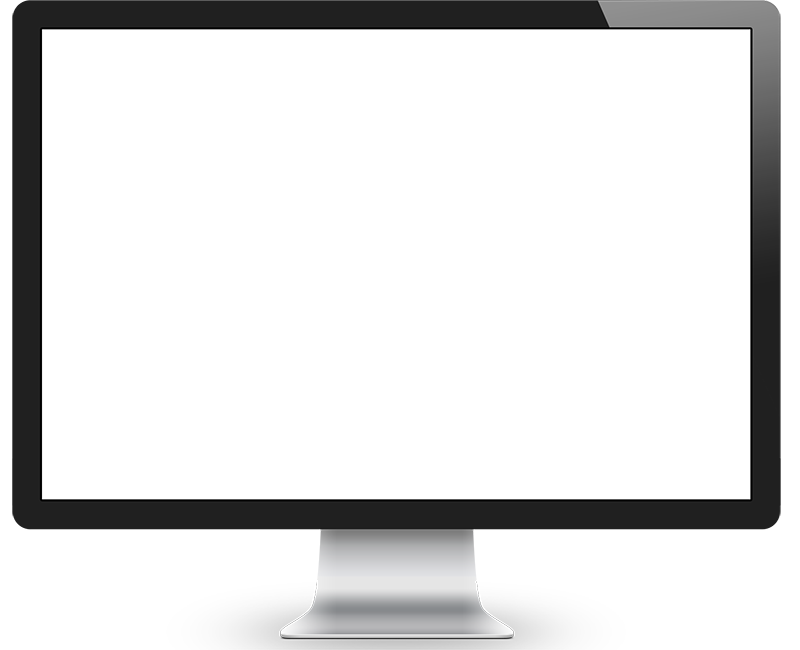
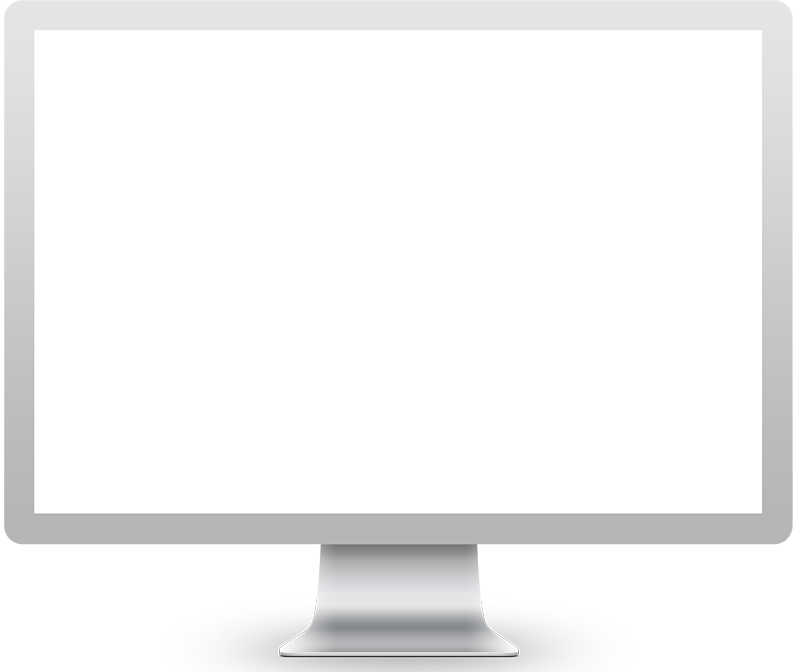
ui

Changed region(s): [[0.0, 0.0, 1.0, 0.8615], [0.3438, 0.8923, 0.6562, 0.9846]]

diff --git a/client/src/components/Landing.js b/client/src/components/Landing.js
@@ -13,9 +13,9 @@ class  Landing extends Component {
   }
 
    videolist = [
-    {id: 1, name: 'Clara', videourl: 'http://18.216.235.248:3000/api/videourl/clara.mp4'},
-    {id: 2, name: 'Jane', videourl: 'http://18.216.235.248:3000/api/videourl/Jane.mp4'},
-    {id: 3, name: 'Mary', videourl: 'http://18.216.235.248:3000/api/videourl/Mary.mp4'},
+    {id: 1, name: 'Clara', videourl: 'http://localhost:3000/api/videourl/clara.mp4'},
+    {id: 2, name: 'Jane', videourl: 'http://localhost:3000/api/videourl/Jane.mp4'},
+    {id: 3, name: 'Mary', videourl: 'http://localhost:3000/api/videourl/Mary.mp4'},
     //{id: 4, name: 'clara2', videourl: 'https://media.w3.org/2010/05/sintel/trailer_hd.mp4'},
     //{id: 5, name: 'clara3', videourl: 'https://www.youtube.com/watch?v=ysz5S6PUM-U'},
   ]
@@ -28,7 +28,7 @@ class  Landing extends Component {
   }
 
   playVideo(playing){
-   return ( <ReactPlayer  ref="reactplayerRef" className="bannervideo"  height={'500px'} width={'500px'} url= {this.videolist[this.state.counter].videourl}
+   return ( <ReactPlayer  ref="reactplayerRef" className="desktop-wrapper pull-right"  height={'500px'} width={'660px'} url= {this.videolist[this.state.counter].videourl}
     onEnded={() => this.renderNextVideo(this.state.counter + 1)}  playing={playing} />
   );
   }
@@ -58,7 +58,7 @@ class  Landing extends Component {
                         </div>
                       
 						<div className="col-sm-6">
-                    <img className="tt-banner-img lazy" data-original="img/banner_01.png" alt="" src="img/banner_01.png" style={{display: "block"}} />
+                    {/* <img className="tt-banner-img lazy" data-original="img/banner_01.png" alt="" src="img/banner_01.png" style={{display: "block"}} /> */}
                     {/* <p>WoW {this.videolist[this.state.counter].name} through a Visual & Personal Story </p> */}
 					      {this.state.counter  < this.videolist.length -1 ? this.playVideo(true) : this.playVideo(false) }
                

diff --git a/client/public/css/main.css b/client/public/css/main.css
@@ -5951,9 +5951,6 @@ strong, b {
     box-shadow: none;
     z-index: 9999;
 }
-
-
-
 .navbar-default .navbar-nav > li > a {
     font-size: 18px;
     color: #777;
@@ -6099,3 +6096,23 @@ padding-right :15px;
 
  }
 /* Ens scroll down arrow*/
+
+/* 2nd example :  BACKGROUND IMAGE */
+div.desktop-wrapper {
+    position: relative;
+    padding-top: 25px;
+    padding-bottom: 67.5%;
+    height: 0;
+}
+div.desktop-wrapper video {
+    box-sizing: border-box;
+    background: url(../img/banner_01.png) center center no-repeat;
+    background-size: contain;
+    padding: 5% 3.9% 21%; /*0 4.6% 25%*/
+    position: absolute;
+    top: 0;
+    left: 0;
+    width: 100%;
+    height: 100%;
+    object-fit: fill;
+}
